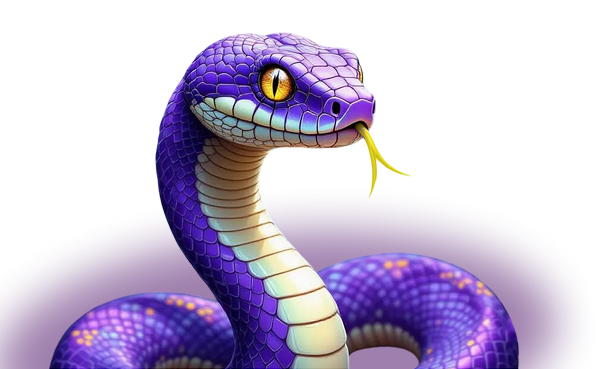
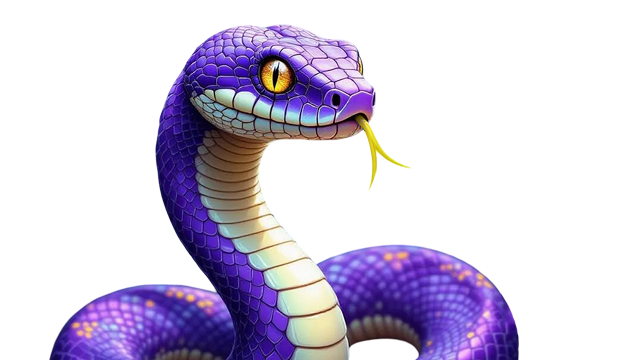
footer layout

diff --git a/src/widgets/multiply-section/multiply-section.tsx b/src/widgets/multiply-section/multiply-section.tsx
@@ -2,6 +2,8 @@
 
 import { useState } from 'react';
 
+import { Footer } from '@/widgets/footer';
+
 import ArrowDownIcon from '@/shared/assets/icons/Arrow_down_icon.svg';
 import { Button } from '@/shared/ui/button';
 import { Text } from '@/shared/ui/text';
@@ -15,68 +17,71 @@ export const MultiplySection = () => {
   const activeTab = MULTIPLY_ITEMS[activeTabId];
 
   return (
-    <section className={styles.section}>
-      <div className='container'>
-        <Text
-          className={styles.subtitle}
-          tag='div'
-          size='40'
-          weight='bold'
-          lineHeight='normal'
-          color='yellow'
-          align='right'
-          transform='uppercase'
-          letterSpacing='display-accent'
-          noWrap
-        >
-          MULTIPLY WITH US
-        </Text>
-        <div className={styles.wrapper}>
-          <div className={styles.tabs}>
-            {MULTIPLY_ITEMS.map(item => (
-              <Button
-                key={item.id}
-                variant='secondary'
-                active={item.id === activeTabId}
-                onClick={() => setActiveTabId(item.id)}
-              >
-                {item.label}
-              </Button>
-            ))}
-          </div>
-          <div className={styles.items}>
-            {activeTab && (
-              <div className={styles.item}>
-                <Text
-                  tag='p'
-                  family='halvar'
-                  size='20'
-                  weight='regular'
-                  lineHeight='24'
-                  color='white'
-                  align='center'
+    <div className={styles.section_wrapper}>
+      <section className={styles.section}>
+        <div className='container'>
+          <Text
+            className={styles.subtitle}
+            tag='div'
+            size='40'
+            weight='bold'
+            lineHeight='normal'
+            color='yellow'
+            align='right'
+            transform='uppercase'
+            letterSpacing='display-accent'
+            noWrap
+          >
+            MULTIPLY WITH US
+          </Text>
+          <div className={styles.wrapper}>
+            <div className={styles.tabs}>
+              {MULTIPLY_ITEMS.map(item => (
+                <Button
+                  key={item.id}
+                  variant='secondary'
+                  active={item.id === activeTabId}
+                  onClick={() => setActiveTabId(item.id)}
                 >
-                  {activeTab.firstText}
-                </Text>
-                <ArrowDownIcon className={styles.arrow_icon} />
-                <Text
-                  tag='p'
-                  family='halvar'
-                  size='20'
-                  weight='regular'
-                  lineHeight='24'
-                  color='white'
-                  align='center'
-                >
-                  {activeTab.secondText}
-                </Text>
-                <ArrowDownIcon className={styles.arrow_icon} />
-                <Button variant='primary'>{activeTab.buttonText}</Button>
-              </div>
-            )}
+                  {item.label}
+                </Button>
+              ))}
+            </div>
+            <div className={styles.items}>
+              {activeTab && (
+                <div className={styles.item}>
+                  <Text
+                    tag='p'
+                    family='halvar'
+                    size='20'
+                    weight='regular'
+                    lineHeight='24'
+                    color='white'
+                    align='center'
+                  >
+                    {activeTab.firstText}
+                  </Text>
+                  <ArrowDownIcon className={styles.arrow_icon} />
+                  <Text
+                    tag='p'
+                    family='halvar'
+                    size='20'
+                    weight='regular'
+                    lineHeight='24'
+                    color='white'
+                    align='center'
+                  >
+                    {activeTab.secondText}
+                  </Text>
+                  <ArrowDownIcon className={styles.arrow_icon} />
+                  <Button variant='primary'>{activeTab.buttonText}</Button>
+                </div>
+              )}
+            </div>
           </div>
         </div>
-      </div>
-    </section>
+      </section>
+      <Footer />
+    </div>
   );
 };

diff --git a/src/widgets/footer/footer.tsx b/src/widgets/footer/footer.tsx
@@ -1,0 +1,57 @@
+import Image from 'next/image';
+
+import ArrowUp from '@/shared/assets/icons/Arrow_up_icon.svg';
+import snakeImg from '@/shared/assets/images/multiplay_page_snake.png';
+import { cn } from '@/shared/lib/cn';
+import { Text } from '@/shared/ui/text';
+
+import styles from './footer.module.css';
+import { SOCIAL_LINKS } from './model/social';
+
+export const Footer = () => {
+  return (
+    <footer className={styles.footer}>
+      <div className={cn('container', styles.footer_container)}>
+        <div className={styles.footer_content}>
+          <ul className={styles.footer_items}>
+            {SOCIAL_LINKS.map(({ label, href }) => (
+              <li key={label} className={styles.footer_item}>
+                <Text
+                  className={styles.footer_item_link}
+                  tag='a'
+                  href={href}
+                  size='20'
+                  weight='bold'
+                  lineHeight='normal'
+                  color='yellow'
+                  transform='uppercase'
+                  underline
+                  noWrap
+                >
+                  {label}
+                </Text>
+              </li>
+            ))}
+          </ul>
+          <Text
+            className={styles.footer_scroll_top}
+            tag='a'
+            href={'#'}
+            size='20'
+            weight='bold'
+            lineHeight='normal'
+            color='yellow'
+            transform='uppercase'
+            underline
+            noWrap
+            key={''}
+          >
+            Scroll to Top
+            <ArrowUp />
+          </Text>
+        </div>
+        <Image className={styles.image} src={snakeImg} alt='snake decor' />
+      </div>
+    </footer>
+  );
+};

diff --git a/src/widgets/footer/footer.module.css b/src/widgets/footer/footer.module.css
@@ -1,0 +1,37 @@
+.footer_items {
+  display: flex;
+  gap: 20px;
+}
+
+.footer_item {
+  padding: 20px 0;
+}
+
+.footer_content {
+  display: flex;
+  align-items: center;
+  justify-content: space-between;
+  gap: 100px;
+  max-width: max-content;
+  margin-left: auto;
+}
+
+.image {
+  position: absolute;
+  bottom: 0;
+  left: 0;
+  width: 630px;
+  height: 360px;
+  z-index: -1;
+}
+
+.footer_container {
+  position: relative;
+  z-index: 1;
+}
+
+.footer_scroll_top {
+  display: flex;
+  align-items: center;
+  gap: 10px;
+}

diff --git a/src/widgets/multiply-section/multiply-section.module.css b/src/widgets/multiply-section/multiply-section.module.css
@@ -1,5 +1,9 @@
-.section {
-  padding: 60px 0 70px;
+.section_wrapper {
+  position: relative;
+  display: flex;
+  flex-direction: column;
+  justify-content: space-between;
+  min-height: 100vh;
   background: linear-gradient(
     120deg,
     #e8871e 0%,
@@ -10,7 +14,10 @@
     #180a30 88%,
     #0d0618 100%
   );
-  min-height: 100vh;
+}
+
+.section {
+  padding: 60px 0 70px;
 }
 
 .wrapper {

diff --git a/src/widgets/footer/model/social.ts b/src/widgets/footer/model/social.ts
@@ -1,0 +1,10 @@
+type SocialLink = {
+  label: string;
+  href: string;
+};
+
+export const SOCIAL_LINKS: SocialLink[] = [
+  { label: 'instagram', href: '#' },
+  { label: 'telegram', href: '#' },
+  { label: 'linkedin', href: '#' },
+];

diff --git a/src/widgets/footer/index.ts b/src/widgets/footer/index.ts
@@ -1,0 +1,1 @@
+export { Footer } from './footer';
